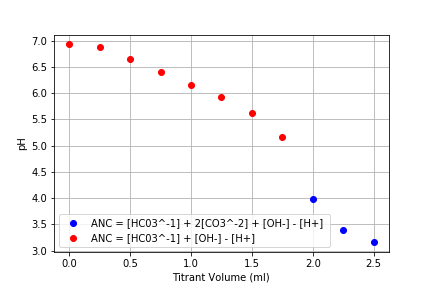
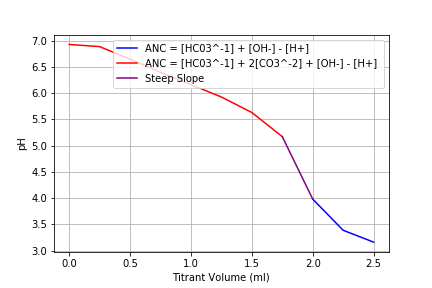
egwegwg

diff --git a/AcidNeutralityPostLab.md b/AcidNeutralityPostLab.md
@@ -1,6 +1,6 @@
 ```python
 
-#DANEILEFA ANDS JESSICASPPWD
+#DanielPyrek and JessiePowell
 
 
 from aguaclara.core.units import unit_registry as u
@@ -8,6 +8,7 @@ import numpy as np
 import matplotlib.pyplot as plt
 import pandas as pd
 from scipy import stats
+import numpy
 
 data_file_path = "https://raw.githubusercontent.com/DanielPyrek/4530/master/GranTime0_1"
 data_file_path2 = "https://raw.githubusercontent.com/DanielPyrek/4530/master/GranTime0_2"
@@ -20,7 +21,9 @@ from scipy import optimize
 def ANC_zeroed(pHguess, ANC):
  return ((epa.ANC_open(pHguess) - ANC).to(u.mol/u.L)).magnitude
 
+#Question1
 
+#Import data for titration curve
 df = pd.read_csv(data_file_path,delimiter='\t')
 df2 = pd.read_csv(data_file_path2,delimiter='\t')
 df3 = pd.read_csv(data_file_path3,delimiter='\t')
@@ -35,7 +38,7 @@ x
 x = df.iloc[:,0].values * u.ml
 x
 y = df.iloc[:,1].values * u.pH
-
+y
 
 print(df2)
 list(df2)
@@ -48,23 +51,26 @@ x2
 x2= df2.iloc[:,0].values * u.ml
 x2
 y2 = df2.iloc[:,1].values * u.pH
+y2
+df = pd.read_csv(data_file_path2,delimiter='\t')
+x8 = df[list(df)[0]].values * u.ml
+x8
+x8 = df.loc[:, list(df)[0]].values * u.ml
 
+x10=[1.75,2]*u.ml
+y10=[5.17327,3.98137]*u.pH
+
+x10
+y10
+  # Plot
 fig, ax = plt.subplots()
- # plot the data as red circles
-ax.plot(x2, y2, 'bo', )
-ax.plot(x, y, 'ro', )
-
-
-
-
-# Add axis labels using the column labels from the dataframe
+ax.plot(x2, y2, 'blue', )
+ax.plot(x, y, 'red', )
+ax.plot(x10, y10, 'purple', )
 ax.set(xlabel=list(df)[0])
 ax.set(ylabel=list(df)[1])
-ax.legend(['ANC = [HC03^-1] + 2[CO3^-2] + [OH-] - [H+] ', 'ANC = [HC03^-1] + [OH-] - [H+] '])
+ax.legend(['ANC = [HC03^-1] + [OH-] - [H+] ','ANC = [HC03^-1] + 2[CO3^-2] + [OH-] - [H+] ','Steep Slope'])
 ax.grid(True)
-# Here I save the file to my local harddrive. You will need to change this to work on your computer.
-# We don't need the file type (png) here.
-
 plt.savefig('C:/Users/dapmo/github/4530/Time0GranPlot')
 plt.show()
 
@@ -89,36 +95,32 @@ x4= df3.iloc[8:11,0].values * u.ml
 x4
 y4 = df3.iloc[8:11,1].values * u.dimensionless
 
-slope, intercept, r_value, p_value, std_err = stats.linregress(x4,y4)
 
-#We can add the units to intercept by giving it the same units as the y values.
+#Linear regression
+slope, intercept, r_value, p_value, std_err = stats.linregress(x4,y4)
 intercept = intercept * y3.units
-# Note that slope is dimensionless for this case, but not in general!
-# For the general case we can attach the correct units to slope.
 slope = slope * y3.units/x3.units
 print(slope)
 print(intercept)
 
-
+#Plot
 fig, ax = plt.subplots()
- # plot the data as red circles
 ax.plot(x3, y3, 'ro', )
 ax.plot(x4, slope * x4 + intercept, 'k-', )
-
-# Add axis labels using the column labels from the dataframe
 ax.set(xlabel=list(df3)[0])
 ax.set(ylabel=list(df3)[1])
 ax.legend(['Titrant volume', 'Linear regression'])
 ax.grid(True)
-# Here I save the file to my local harddrive. You will need to change this to work on your computer.
-# We don't need the file type (png) here.
-
 plt.savefig('C:/Users/dapmo/github/4530/Time0GranPlotF1')
 plt.show()
 
+#Solve for Ve
 xintercept=(-intercept)/slope
 xintercept
 
+
+
+#Question3
 
 #Import lab ANC data
 data_file_path5 = "https://raw.githubusercontent.com/DanielPyrek/4530/master/ANCValues"
@@ -179,7 +181,6 @@ x = x/theta*u.dimensionless
 y = df.iloc[:,1].values
 
 
-#Question 2
 
 Mass=623*u.mg
 ANC0=Mass/V/(84*u.mg)/(1000)*u.equivalent
@@ -197,8 +198,6 @@ ax.grid(True)
 # Here I save the file to my local harddrive. You will need to change this to work on your computer.
 # We don't need the file type (png) here.
 
-plt.savefig('C:/Users/dapmo/github/4530/Lab3Plot2')
-plt.show()
 
 
 
@@ -206,20 +205,57 @@ Carb = .0017786
 y3 = epa.ANC_closed(y,Carb*u.mol/u.L)
 y4 = epa.ANC_open(y)
 
+
+#Plot
 fig, ax = plt.subplots()
 ax.plot(xtime, y3, 'blue' ,)
 ax.plot(xtime, y4, 'green', )
 ax.plot(xtime, y2, 'red', )
 ax.plot(x5, y5, 'orange', )
 
-# Add axis labels using the column labels from the dataframe
 ax.set(xlabel="Residence Time (dimensionless)")
 ax.set(ylabel="ANC (eq/L)")
 ax.legend(['Closed ANC', 'Open ANC', 'Conservative ANC','Empirical ANC Data'])
 ax.grid(True)
-plt.savefig('C:/Users/dapmo/github/4530/Lab3Plot3')
+plt.savefig('C:/Users/dapmo/github/4530/Lab4ANCPlot')
 plt.show()
 
 
 
+
 ```
+<b>Acid Neutrality Post Lab3
+Daniel Pyrek and Jessie Powell
+3/2/19</b>
+
+
+<b>Introduction and Objectives</b>
+	The goal of this lab is to determine ANC of all the samples recovered from the previous lab, Acid Lake Remediation Lab. From that, five 50mL samples from the “lake” were recovered, each taken at five minute time intervals with increasing amounts of the acid NaOH, which has a pH of 3.2. To find the ANC, hydrochloric acid was added incrementally and recording data on a Gran plot. From the plots, it is possible to determine the exact volume of titrant needed and from there, the ANC, which is a function of said volume:
+
+$$ANC=\frac{V_e N_t }{V_s }$$
+
+
+
+<b>Procedures</b>
+	To begin, the pH probe was calibrated using pH 4,7 and 10 buffers. Once calibrated, the ANC of 50 mL of reverse osmosis water was measured to verify that the Gran technique works accurately. To test this, the beaker was placed on the stirrer with stir bar. Then the initial pH was measured, followed by the first 0.25 mL addition of hydrochloric acid. The pH was recorded after each titrant addition. This procedure was repeated with all five samples.
+
+<b>Results</b>
+
+Our first task was to plot a titration curve from the data we collected. We plotted pH as a function of titrant volume. This is important because we can moniter what reactions are occuring in our solution.
+
+  ![plot](https://github.com/DanielPyrek/4530/blob/master//Time0GranPlot.png?raw=true)
+
+  The linear regression formed had a slope of 0.001232 and a y-intercept of -0.002351 mL. The Ve measured was 1.9083 mL. This is incredibly similar to ProCoda’s calculated Ve, which was 1.908638 mL.
+ Linear regression line: f(x)=0.001232x-0.002351
+
+ The measured ANC followed a similar trend to the conservative ANC model. The initial ANC for the measured data was slightly higher, but at time increases it becomes lower than the conservative data. Nonetheless, the curves are a close match in terms of shape and descent.
+
+
+  <b>Conclusions</b>
+
+  The aim of this lab experiment was to determine the acid neutralizing capacity of the lake samples from the previous lab experiment. Through incremental titrant addition of hydrochloric acid, and the use of the Gran plot in ProCoda, the specific volume of titrant necessary was found to find the ANC.
+
+  <b>Suggestions/Comments</b>
+  While setting up the lab within ProCoda, it was unclear what volume of titrant should be added incrementally. While it was eventually determined that .25 mL should be used per titration, perhaps it would be easier to state that within the lab procedures so it is clearer.
+
+  ProCoda crashed on us several times. However, since this lab, bug fixes seem to have remedied this problem.
